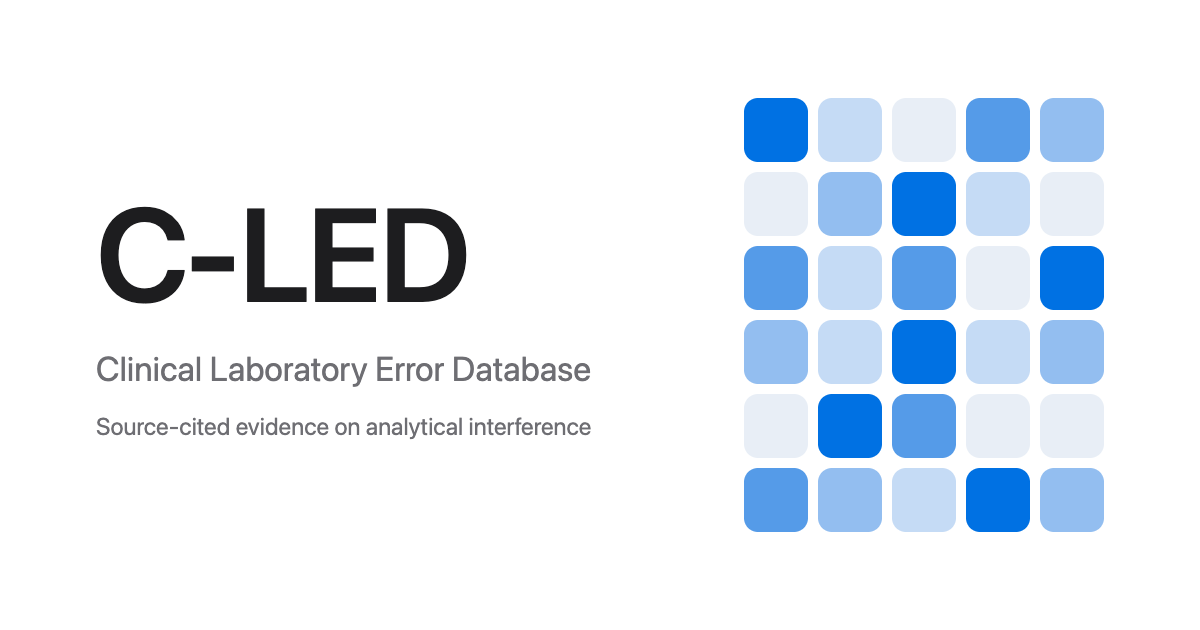
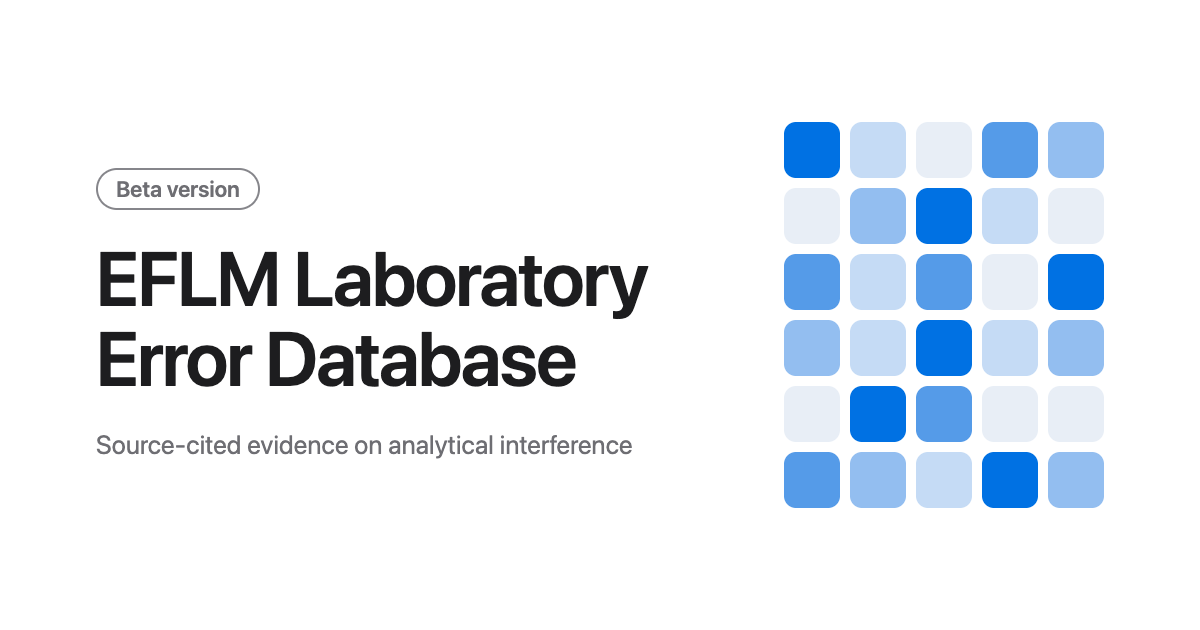
Rename the database to EFLM Laboratory Error Database (Beta version)
The name and the beta marker are shown on the website (navigation, home,
titles, footer, share image), in the README and in STRUCTURE.md. The
repository name, file names and identifiers are unchanged. On narrow screens
the navigation uses a second row for its links.

diff --git a/site/src/routes/about/+page.svelte b/site/src/routes/about/+page.svelte
@@ -9,15 +9,18 @@
 	const stats = $derived(site.data.stats);
 </script>
 
-<Seo title="About" description="What the C-LED database is, what it covers and what it does not." />
+<Seo title="About" description="What the EFLM Laboratory Error Database is, what it covers and what it does not." />
 <div class="wrap page prose">
 	<p class="eyebrow">About</p>
-	<h1>About C-LED</h1>
-	<p class="lede">C-LED, the Clinical Laboratory Error Database, is structured, source-cited evidence on how interferents bias clinical laboratory measurements, judged against an analytical performance specification (APS) for each analyte.</p>
+	<h1>About the database</h1>
+	<p class="lede">The EFLM Laboratory Error Database is structured, source-cited evidence on how interferents bias clinical laboratory measurements, judged against an analytical performance specification (APS) for each analyte.</p>
 
 	<h2>What one row is</h2>
-	<p>One row of C-LED is one piece of published evidence that a named interferent changed the measurement of a named analyte. It is recorded with the direction and size of the error, the measurement platform it was observed on, an appraisal of the study, and a citation.</p>
+	<p>One row of the database is one piece of published evidence that a named interferent changed the measurement of a named analyte. It is recorded with the direction and size of the error, the measurement platform it was observed on, an appraisal of the study, and a citation.</p>
 	<p>Each analyte carries one analytical performance specification: a relative allowable total error. Every row is judged against it. On this site you can also judge the rows against an APS of your own.</p>
+
+	<h2>Beta version</h2>
+	<p>This is a beta version. The content and the structure of the database may still change.</p>
 
 	<h2>Scope</h2>
 	<p>The scope is analytical interference and pre-analytical error: things that make the measured value differ from the true value. It is not a database of reference intervals, clinical decision limits or drug effects on physiology.</p>

diff --git a/site/src/routes/+page.svelte b/site/src/routes/+page.svelte
@@ -1,6 +1,7 @@
 <script lang="ts">
 	import { base } from '$app/paths';
 	import { getSite } from '$lib/context';
+	import { SITE_NAME, SITE_STAGE } from '$lib/env';
 	import { RANGE_MIN_BYTES } from '$lib/data/store';
 	import * as f from '$lib/format';
 	import Seo from '$lib/components/Seo.svelte';
@@ -18,13 +19,14 @@
 	});
 </script>
 
-<Seo title="C-LED" description="C-LED, the Clinical Laboratory Error Database: structured, source-cited evidence on how interferents bias clinical laboratory measurements, judged against an analytical performance specification for each analyte." />
+<Seo title={SITE_NAME} description="{SITE_NAME} ({SITE_STAGE}): structured, source-cited evidence on how interferents bias clinical laboratory measurements, judged against an analytical performance specification for each analyte." />
 
 <svelte:head>{#if index && index.manifest.files.slim_all.bytes < RANGE_MIN_BYTES}<link rel="preload" as="fetch" crossorigin="anonymous" href="{base}/data/{index.manifest.files.slim_all.path}" />{/if}</svelte:head>
 
 <section class="hero">
 	<div class="wrap">
-		<h1>C-LED</h1>
+		<p class="stage">{SITE_STAGE}</p>
+		<h1>{SITE_NAME}</h1>
 		<p class="lede">Source-cited evidence on how interferents bias clinical laboratory measurements, judged against an analytical performance specification for each analyte.</p>
 		<div class="search"><SearchBox large /></div>
 	</div>
@@ -81,10 +83,22 @@
 		text-align: center;
 	}
 	.hero h1 {
-		font-size: clamp(3.5rem, 2.4rem + 5.6vw, 5rem);
+		font-size: clamp(2.25rem, 1.2rem + 5.2vw, 4.5rem);
 		letter-spacing: -0.02em;
-		line-height: 1.02;
-		margin-bottom: 20px;
+		line-height: 1.05;
+		max-width: 16ch;
+		margin: 0 auto 24px;
+	}
+	.stage {
+		display: inline-block;
+		margin: 0 0 20px;
+		padding: 4px 14px;
+		border: 1px solid var(--control);
+		border-radius: 980px;
+		font-size: 0.8125rem;
+		font-weight: 600;
+		letter-spacing: 0.03em;
+		color: var(--text-2);
 	}
 	.hero .lede {
 		margin: 0 auto 36px;

diff --git a/site/src/lib/components/Nav.svelte b/site/src/lib/components/Nav.svelte
@@ -3,7 +3,7 @@
 	import { page } from '$app/state';
 	import { afterNavigate } from '$app/navigation';
 	import { getSite } from '$lib/context';
-	import { sitePath } from '$lib/env';
+	import { SITE_NAME, SITE_STAGE, sitePath } from '$lib/env';
 	import ThemeToggle from './ThemeToggle.svelte';
 
 	const site = getSite();
@@ -33,7 +33,7 @@
 
 <header class="nav">
 	<nav class="wrap inner" aria-label="Main">
-		<a class="brand" href="{base}/">C-LED</a>
+		<a class="brand" href="{base}/"><span class="name">{SITE_NAME}</span><span class="stage">{SITE_STAGE}</span></a>
 		<ul>
 			<li>
 				<!-- svelte-ignore a11y_no_noninteractive_element_interactions -->
@@ -79,11 +79,49 @@
 		min-height: 52px;
 	}
 	.brand {
+		display: flex;
+		align-items: center;
+		gap: 8px;
+		flex: none;
 		font-weight: 600;
-		font-size: 1.1875rem;
+		font-size: 1rem;
 		letter-spacing: -0.01em;
+		line-height: 1.15;
 		color: var(--text);
 		margin-right: 12px;
+	}
+	.brand:hover {
+		text-decoration: none;
+	}
+	.stage {
+		padding: 2px 8px;
+		border: 1px solid var(--control);
+		border-radius: 980px;
+		font-size: 0.6875rem;
+		font-weight: 600;
+		letter-spacing: 0.02em;
+		color: var(--text-2);
+		white-space: nowrap;
+	}
+	.tools {
+		margin-left: auto;
+	}
+	/* narrow screens: name and tools on the first row, the links on a second, scrollable row */
+	@media (max-width: 760px) {
+		.inner {
+			flex-wrap: wrap;
+			row-gap: 0;
+		}
+		.brand {
+			flex: 0 0 100%;
+			font-size: 0.9375rem;
+			min-height: 44px;
+			margin-right: 0;
+		}
+		ul {
+			flex: 1 1 0;
+			margin-left: -10px;
+		}
 	}
 	ul {
 		display: flex;
@@ -138,7 +176,7 @@
 	}
 	.menu {
 		position: absolute;
-		top: 52px;
+		top: 100%;
 		left: var(--pad);
 		z-index: 50;
 		display: grid;

diff --git a/site/src/lib/components/Seo.svelte b/site/src/lib/components/Seo.svelte
@@ -1,10 +1,10 @@
 <script lang="ts">
 	import { base } from '$app/paths';
 	import { page } from '$app/state';
-	import { PUBLIC_SITE_URL, sitePath } from '$lib/env';
+	import { PUBLIC_SITE_URL, SITE_NAME, SITE_STAGE, sitePath } from '$lib/env';
 
 	let { title, description }: { title: string; description: string } = $props();
-	const full = $derived(title === 'C-LED' ? 'C-LED: Clinical Laboratory Error Database' : `${title} · C-LED`);
+	const full = $derived(title === SITE_NAME ? `${SITE_NAME} (${SITE_STAGE})` : `${title} · ${SITE_NAME}`);
 	const canonical = $derived(PUBLIC_SITE_URL ? PUBLIC_SITE_URL + sitePath(page.url.pathname, base) : '');
 	const image = $derived(PUBLIC_SITE_URL ? `${PUBLIC_SITE_URL}/og.png` : `${base}/og.png`);
 </script>
@@ -13,7 +13,7 @@
 	<title>{full}</title>
 	<meta name="description" content={description} />
 	<meta property="og:type" content="website" />
-	<meta property="og:site_name" content="C-LED" />
+	<meta property="og:site_name" content={SITE_NAME} />
 	<meta property="og:title" content={full} />
 	<meta property="og:description" content={description} />
 	<meta property="og:image" content={image} />

diff --git a/site/src/routes/cite/+page.svelte b/site/src/routes/cite/+page.svelte
@@ -6,7 +6,7 @@
 	let { data } = $props();
 </script>
 
-<Seo title="How to cite" description="How to cite the C-LED database and the sources of its evidence rows." />
+<Seo title="How to cite" description="How to cite the EFLM Laboratory Error Database and the sources of its evidence rows." />
 <div class="wrap page prose">
 	<p class="eyebrow">Citation</p>
 	<h1>How to cite</h1>
@@ -28,7 +28,7 @@
 	<h2>Until then</h2>
 	<p>Refer to the database by its name, the version you used and where you obtained it:</p>
 	<ul>
-		<li>Name: C-LED Database (Clinical Laboratory Error Database)</li>
+		<li>Name: EFLM Laboratory Error Database - Beta version</li>
 		{#if data.version}<li>Version: {data.version}{#if data.released} ({data.released}){/if}; see the <a href="{base}/changelog/">changelog</a></li>{/if}
 		{#if data.versionDoi ?? data.conceptDoi}<li>DOI: {data.versionDoi ?? data.conceptDoi}</li>{/if}
 		{#if PUBLIC_SITE_URL}<li>Website: <a href="{PUBLIC_SITE_URL}/">{PUBLIC_SITE_URL}/</a></li>{/if}

diff --git a/site/src/routes/search/+page.svelte b/site/src/routes/search/+page.svelte
@@ -90,7 +90,7 @@
 	const live = $derived(!q ? '' : status === 'ready' ? `${entities.length} entries and ${f.int(total)} evidence rows match "${q}".` : status === 'loading' ? 'Searching…' : '');
 </script>
 
-<Seo title={q ? `Search: ${q}` : 'Search'} description="Search the C-LED database for analytes, interferents, concepts and evidence rows." />
+<Seo title={q ? `Search: ${q}` : 'Search'} description="Search the EFLM Laboratory Error Database for analytes, interferents, concepts and evidence rows." />
 
 {#snippet mark(text: string | null)}
 	{#each highlightParts(f.isNotReported(text) ? f.NOT_REPORTED : (text ?? ''), q) as part, i (i)}{#if part.hit}<mark>{part.text}</mark>{:else}{part.text}{/if}{/each}

diff --git a/site/tests/e2e/site.spec.ts b/site/tests/e2e/site.spec.ts
@@ -10,7 +10,8 @@ test('home renders the KPIs and the concept x analyte matrix', async ({ page }) 
 	const stats = readJson('stats.json');
 	const interferents = readJson('interferents.json').filter((i: any) => i.evidence_rows > 0);
 	await page.goto('');
-	await expect(page.getByRole('heading', { level: 1, name: 'C-LED' })).toBeVisible();
+	await expect(page.getByRole('heading', { level: 1, name: 'EFLM Laboratory Error Database' })).toBeVisible();
+	await expect(page.getByRole('navigation', { name: 'Main' })).toContainText('Beta version');
 	const kpis = page.getByTestId('kpis');
 	await expect(kpis).toContainText(int(stats.generated_rows));
 	await expect(kpis).toContainText(int(interferents.length));

diff --git a/site/src/lib/components/Footer.svelte b/site/src/lib/components/Footer.svelte
@@ -1,6 +1,6 @@
 <script lang="ts">
 	import { base } from '$app/paths';
-	import { REPO_URL } from '$lib/env';
+	import { REPO_URL, SITE_NAME, SITE_STAGE } from '$lib/env';
 	const links = [
 		{ href: '/about/', label: 'About' },
 		{ href: '/methods/', label: 'Methods' },
@@ -14,7 +14,7 @@
 <footer>
 	<div class="wrap">
 		<p class="caption">
-			C-LED, the Clinical Laboratory Error Database. Every evidence row is traceable to a published source by citation, DOI or PubMed ID.
+			{SITE_NAME} ({SITE_STAGE}). Every evidence row is traceable to a published source by citation, DOI or PubMed ID.
 			Full-text articles are not distributed. This site sets no cookies and uses no analytics.
 		</p>
 		<ul>

diff --git a/site/src/routes/methods/+page.svelte b/site/src/routes/methods/+page.svelte
@@ -11,7 +11,7 @@
 	const plottable = $derived(stats ? Object.values(stats.plottable_by_analyte).reduce((a, b) => a + b, 0) : 0);
 </script>
 
-<Seo title="Methods" description="How the C-LED database is structured: what counts as evidence, how rows are judged against an analytical performance specification, and the known limitations." />
+<Seo title="Methods" description="How the EFLM Laboratory Error Database is structured: what counts as evidence, how rows are judged against an analytical performance specification, and the known limitations." />
 <div class="wrap page prose">
 	<p class="eyebrow">Methods</p>
 	<h1>How the database is built</h1>

diff --git a/site/src/app.css b/site/src/app.css
@@ -1,4 +1,4 @@
-/* C-LED design tokens. Light is the default; dark follows the system or the manual toggle. */
+/* Design tokens. Light is the default; dark follows the system or the manual toggle. */
 :root {
 	--bg: #ffffff;
 	--bg-2: #f5f5f7;
@@ -37,6 +37,7 @@
 	--wide: 1280px;
 	--pad: clamp(20px, 4vw, 32px);
 	--section: clamp(56px, 9vw, 112px);
+	--nav-h: 53px;
 	color-scheme: light;
 }
 :root[data-theme='dark'] {
@@ -100,6 +101,11 @@
 	}
 }
 
+@media (max-width: 760px) {
+	:root {
+		--nav-h: 89px;
+	}
+}
 *,
 *::before,
 *::after {

diff --git a/site/src/routes/row/[row_id]/+page.svelte b/site/src/routes/row/[row_id]/+page.svelte
@@ -5,8 +5,8 @@
 </script>
 
 <svelte:head>
-	<title>{rowId} · C-LED</title>
-	<meta name="description" content="Evidence row {rowId} of the C-LED database, with every source column and its reference." />
+	<title>{rowId} · EFLM Laboratory Error Database</title>
+	<meta name="description" content="Evidence row {rowId} of the EFLM Laboratory Error Database, with every source column and its reference." />
 </svelte:head>
 <div class="wrap page">
 	{#key rowId}<RowView {rowId} />{/key}

diff --git a/site/src/lib/env.ts b/site/src/lib/env.ts
@@ -11,3 +11,7 @@ export function sitePath(pathname: string, runtimeBase = ''): string {
 	for (const b of [SITE_PATH, runtimeBase]) if (b && b.startsWith('/') && pathname.startsWith(b + '/')) return pathname.slice(b.length);
 	return pathname;
 }
+
+/** The name of the database and its release stage, as shown everywhere on the site. */
+export const SITE_NAME = 'EFLM Laboratory Error Database';
+export const SITE_STAGE = 'Beta version';
